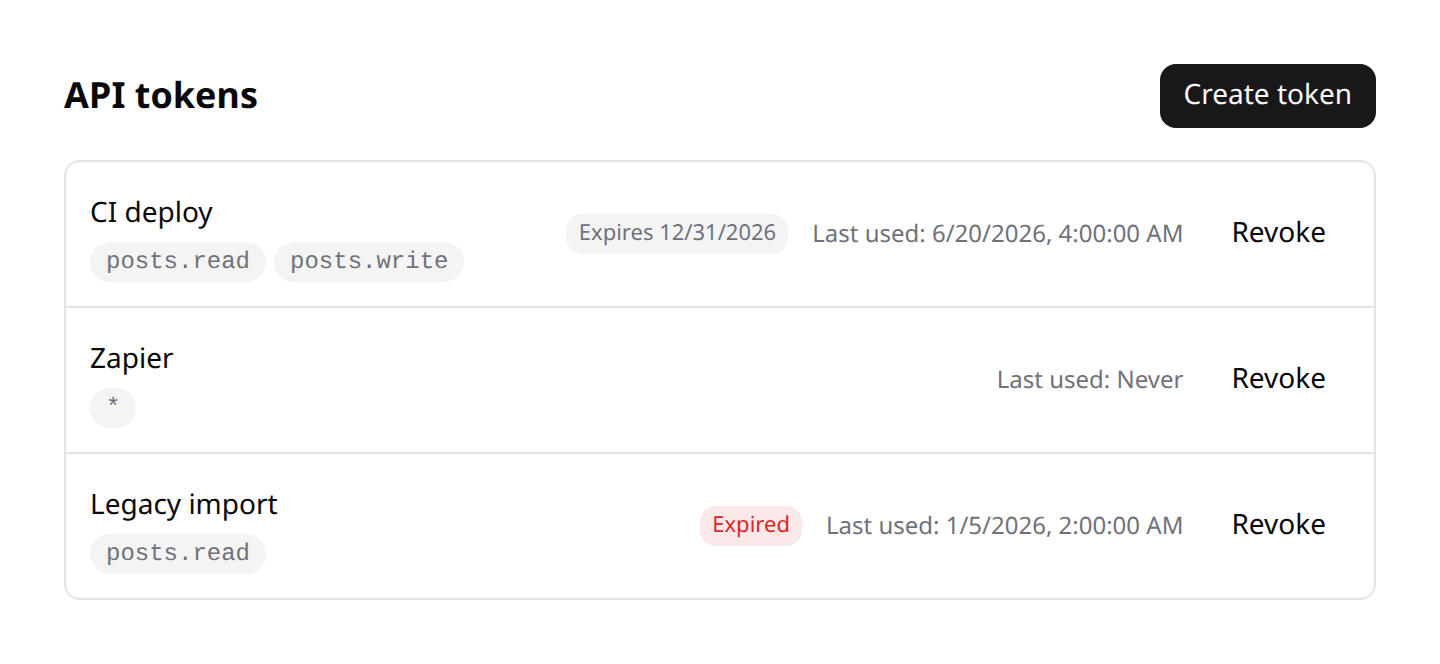
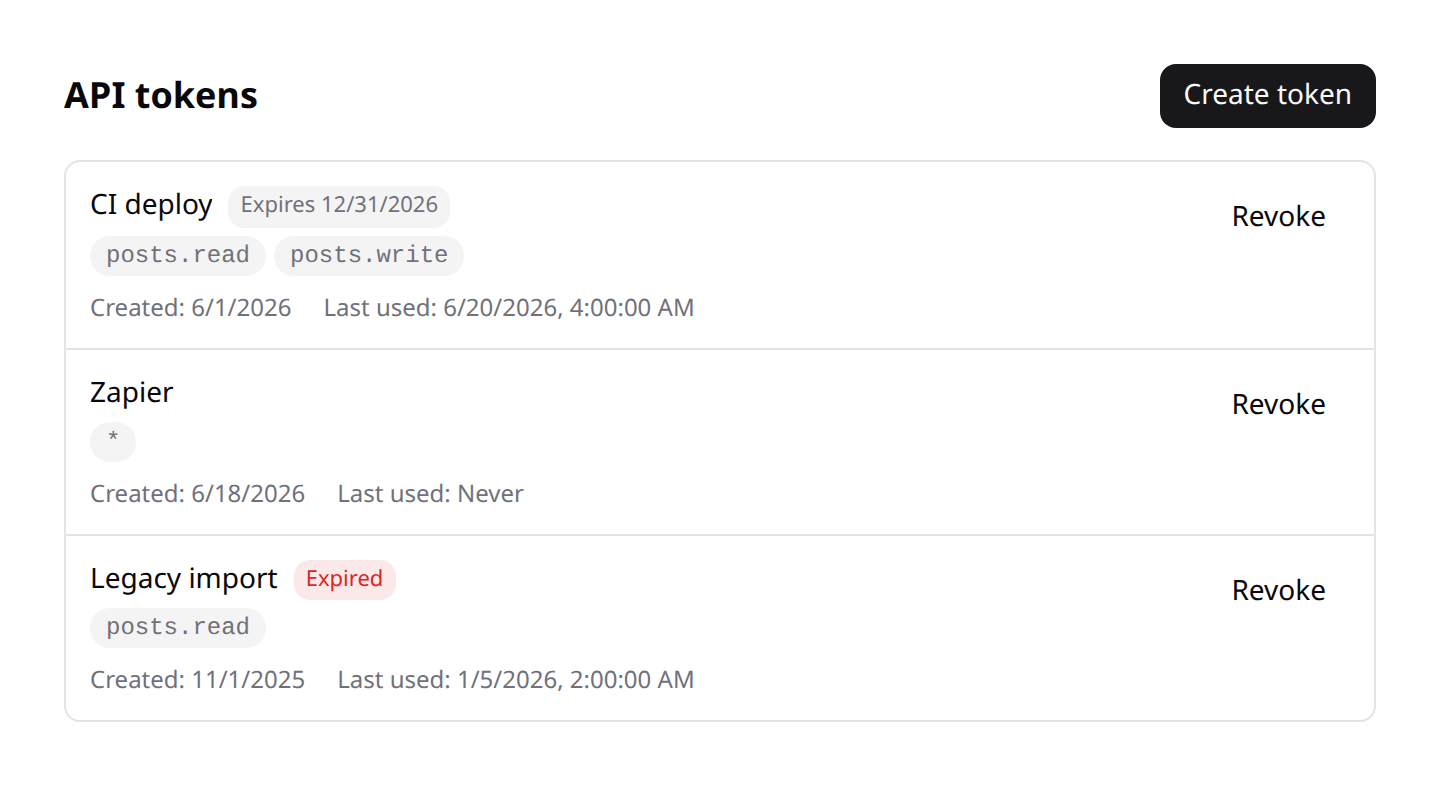
feat(tokens): show created date + mobile-friendly token list (v0.86.1)
- Each token row shows its creation date next to last-used in a wrapping
  meta line; the expiry badge moves next to the name.
- Responsive layout: name/scopes + meta stack cleanly at narrow widths,
  Revoke stays pinned top-right (verified with a 360px gallery specimen,
  kept as token-manager-mobile).
- i18n token_created (en/es/fr/pt).

diff --git a/resources/js/components/KinetixTokenManager.vue b/resources/js/components/KinetixTokenManager.vue
@@ -241,11 +241,35 @@ function formatDate(value: string | null): string {
             </p>
 
             <div v-for="token in tokens" :key="String(token.id)" class="p-3">
-                <div class="gap-2 flex flex-wrap items-center justify-between">
+                <!-- Name + scopes on the left, revoke pinned top-right; the
+                     meta line below wraps freely so narrow screens stack. -->
+                <div class="gap-2 flex items-start justify-between">
                     <div class="min-w-0">
-                        <span class="text-sm font-medium text-foreground">{{
-                            token.name
-                        }}</span>
+                        <div class="gap-2 flex flex-wrap items-center">
+                            <span
+                                class="text-sm font-medium truncate text-foreground"
+                                >{{ token.name }}</span
+                            >
+                            <span
+                                v-if="token.expiresAt"
+                                class="px-1.5 py-0.5 font-medium rounded-md text-[11px] whitespace-nowrap"
+                                :class="
+                                    isExpired(token)
+                                        ? 'bg-destructive/10 text-destructive'
+                                        : 'bg-muted text-muted-foreground'
+                                "
+                            >
+                                {{
+                                    isExpired(token)
+                                        ? t('kinetix.token_expired')
+                                        : t('kinetix.token_expires', {
+                                              date: new Date(
+                                                  token.expiresAt,
+                                              ).toLocaleDateString(),
+                                          })
+                                }}
+                            </span>
+                        </div>
                         <div class="mt-1 gap-1 flex flex-wrap">
                             <span
                                 v-for="ability in token.abilities"
@@ -256,39 +280,32 @@ function formatDate(value: string | null): string {
                             </span>
                         </div>
                     </div>
-                    <div class="gap-3 flex items-center">
-                        <span
-                            v-if="token.expiresAt"
-                            class="px-1.5 py-0.5 font-medium rounded-md text-[11px]"
-                            :class="
-                                isExpired(token)
-                                    ? 'bg-destructive/10 text-destructive'
-                                    : 'bg-muted text-muted-foreground'
-                            "
-                        >
-                            {{
-                                isExpired(token)
-                                    ? t('kinetix.token_expired')
-                                    : t('kinetix.token_expires', {
-                                          date: new Date(
-                                              token.expiresAt,
-                                          ).toLocaleDateString(),
-                                      })
-                            }}
-                        </span>
-                        <span class="text-xs text-muted-foreground">
-                            {{ t('kinetix.token_last_used') }}:
-                            {{ formatDate(token.lastUsedAt) }}
-                        </span>
-                        <button
-                            :class="
-                                buttonVariants({ variant: 'ghost', size: 'sm' })
-                            "
-                            @click="onDelete(token)"
-                        >
-                            {{ t('kinetix.token_revoke') }}
-                        </button>
-                    </div>
+                    <button
+                        :class="
+                            buttonVariants({ variant: 'ghost', size: 'sm' })
+                        "
+                        class="shrink-0"
+                        @click="onDelete(token)"
+                    >
+                        {{ t('kinetix.token_revoke') }}
+                    </button>
+                </div>
+
+                <div
+                    class="mt-2 gap-x-4 gap-y-1 text-xs flex flex-wrap text-muted-foreground"
+                >
+                    <span>
+                        {{ t('kinetix.token_created') }}:
+                        {{
+                            token.createdAt
+                                ? new Date(token.createdAt).toLocaleDateString()
+                                : '—'
+                        }}
+                    </span>
+                    <span>
+                        {{ t('kinetix.token_last_used') }}:
+                        {{ formatDate(token.lastUsedAt) }}
+                    </span>
                 </div>
             </div>
         </div>

diff --git a/tests/js/components/KinetixTokenManager.spec.ts b/tests/js/components/KinetixTokenManager.spec.ts
@@ -90,6 +90,26 @@ describe('KinetixTokenManager', () => {
         });
     });
 
+    it('shows the creation date for each token', () => {
+        tokens.value = [
+            {
+                id: 1,
+                name: 'Live',
+                abilities: [],
+                lastUsedAt: null,
+                createdAt: '2026-06-01T09:00:00Z',
+                expiresAt: null,
+            },
+        ];
+
+        const w = mountManager();
+
+        expect(w.text()).toContain('token_created');
+        expect(w.text()).toContain(
+            new Date('2026-06-01T09:00:00Z').toLocaleDateString(),
+        );
+    });
+
     it('shows an expiry badge and flags expired tokens', () => {
         tokens.value = [
             {

diff --git a/gallery/specimens.ts b/gallery/specimens.ts
@@ -1053,6 +1053,12 @@ export const specimens: Specimen[] = [
         width: 720,
     },
     {
+        name: 'token-manager-mobile',
+        title: 'API token manager (mobile)',
+        component: KinetixTokenManager,
+        width: 360,
+    },
+    {
         name: 'connected-accounts',
         title: 'Connected accounts',
         component: KinetixConnectedAccounts,

diff --git a/resources/lang/fr/kinetix.php b/resources/lang/fr/kinetix.php
@@ -307,6 +307,7 @@ return [
     'token_scopes'           => 'Portées',
     'token_full_access'      => 'Ce jeton aura un accès complet.',
     'token_expires_at'       => 'Date d\'expiration (optionnelle)',
+    'token_created'          => 'Créé le',
     'token_expires_hint'     => 'Le jeton cesse de fonctionner à la fin de ce jour. Vide = sans expiration.',
     'token_expires'          => 'Expire le {date}',
     'token_expired'          => 'Expiré',

diff --git a/resources/lang/es/kinetix.php b/resources/lang/es/kinetix.php
@@ -307,6 +307,7 @@ return [
     'token_scopes'           => 'Permisos',
     'token_full_access'      => 'Este token tendrá acceso total.',
     'token_expires_at'       => 'Fecha de expiración (opcional)',
+    'token_created'          => 'Creado',
     'token_expires_hint'     => 'El token deja de funcionar al final de ese día. Vacío = sin expiración.',
     'token_expires'          => 'Expira {date}',
     'token_expired'          => 'Expirado',

diff --git a/resources/lang/en/kinetix.php b/resources/lang/en/kinetix.php
@@ -307,6 +307,7 @@ return [
     'token_scopes'           => 'Scopes',
     'token_full_access'      => 'This token will have full access.',
     'token_expires_at'       => 'Expiration date (optional)',
+    'token_created'          => 'Created',
     'token_expires_hint'     => 'The token stops working at the end of that day. Leave empty for no expiration.',
     'token_expires'          => 'Expires {date}',
     'token_expired'          => 'Expired',

diff --git a/resources/lang/pt/kinetix.php b/resources/lang/pt/kinetix.php
@@ -307,6 +307,7 @@ return [
     'token_scopes'           => 'Escopos',
     'token_full_access'      => 'Este token terá acesso total.',
     'token_expires_at'       => 'Data de expiração (opcional)',
+    'token_created'          => 'Criado',
     'token_expires_hint'     => 'O token deixa de funcionar no final desse dia. Vazio = sem expiração.',
     'token_expires'          => 'Expira {date}',
     'token_expired'          => 'Expirado',

diff --git a/docs/tokens.md b/docs/tokens.md
@@ -90,7 +90,8 @@ import KinetixTokenManager from "@/components/KinetixTokenManager.vue";
 
 <Screenshot name="token-manager" alt="API token manager" />
 
-It lists the user's tokens (name, scopes, last-used), provides a create form with
+It lists the user's tokens (name, scopes, created, last-used, expiry — stacking
+cleanly on mobile), provides a create form with
 a scope picker, **reveals the plaintext token once** in a copy-able banner, and
 revokes tokens. All strings are localized (`token_*` keys, en/es/fr/pt).
 

diff --git a/CHANGELOG.md b/CHANGELOG.md
@@ -13,6 +13,15 @@ and this project adheres to [Semantic Versioning](https://semver.org/spec/v2.0.0
 
 ## [Unreleased]
 
+## [0.86.1] - 2026-07-10
+
+### Changed
+
+- **`KinetixTokenManager` list polish** — each token now shows its creation
+  date, the expiry badge sits next to the name, and the row layout stacks
+  cleanly on mobile (meta line wraps; Revoke stays pinned top-right).
+  **(published)**
+
 ## [0.86.0] - 2026-07-10
 
 ### Added
